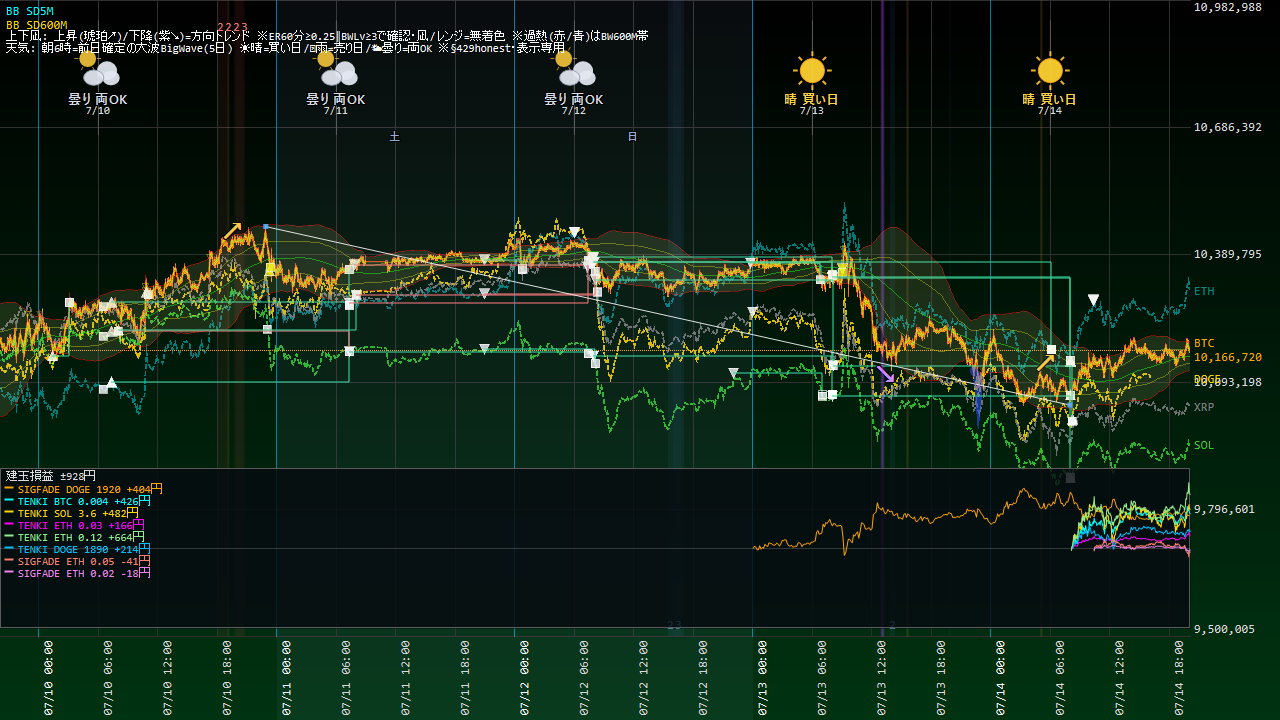
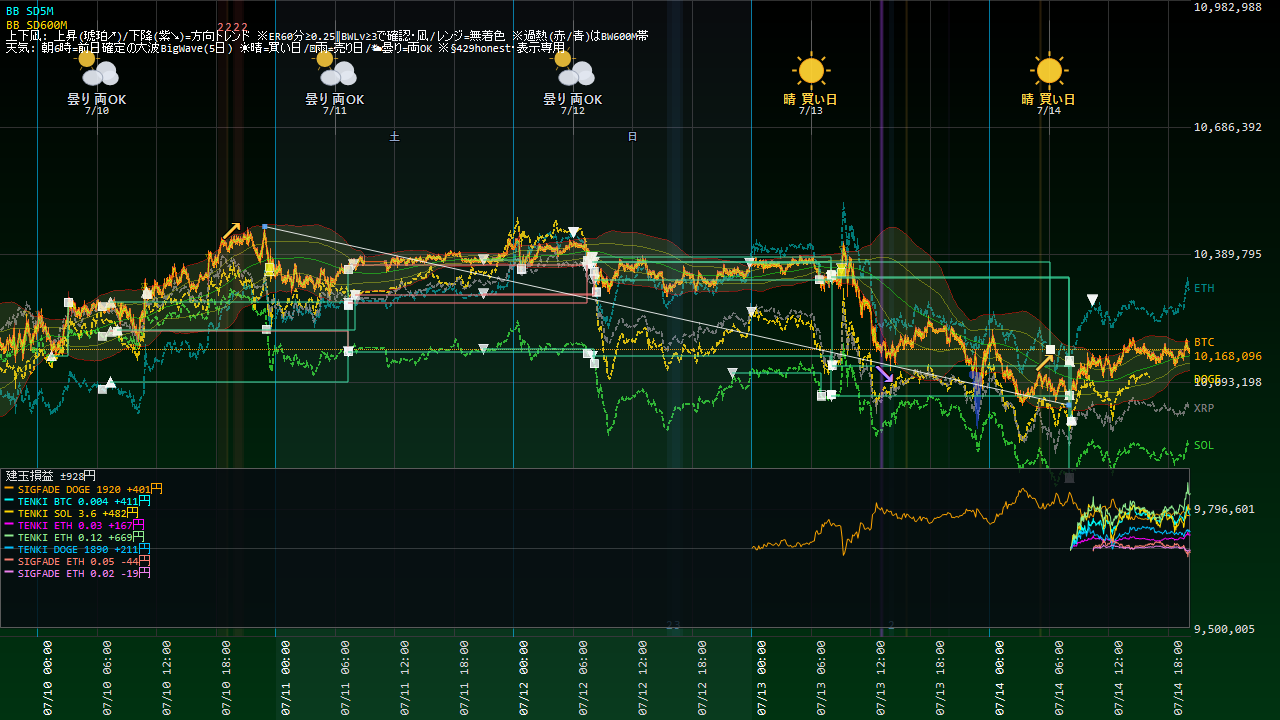
Coin100S 運用状況更新 07-14 20:17

diff --git a/coin100s-795hc4jfv8/status.html b/coin100s-795hc4jfv8/status.html
@@ -14,23 +14,23 @@ a{color:#60a5fa;text-decoration:none} a:hover{text-decoration:underline}
 .meta{color:#94a3b8;font-size:13px}</style>
 <script>setTimeout(function(){location.replace(location.pathname+"?t="+Date.now());},300000);</script></head><body>
 <h1>Coin100S 運用状況</h1>
-<p class="meta">スナップショット: 2026-07-14 20:10:47 / ページ生成: 2026-07-14 20:11:06(自動リロード・最新化) / <a href="index.html">目次へ</a></p>
+<p class="meta">スナップショット: 2026-07-14 20:16:47 / ページ生成: 2026-07-14 20:17:06(自動リロード・最新化) / <a href="index.html">目次へ</a></p>
 <div class="cards">
 <div class="card">建玉数<div class="v">8</div></div>
 <div class="card">本日損益<div class="v pos">+5,341円</div></div>
-<div class="card">評価損益<div class="v pos">+2,262円</div></div>
+<div class="card">評価損益<div class="v pos">+2,443円</div></div>
 </div>
 <h2>資産推移(直近30日)</h2>
-<img src="status_equity.png?t=2011" alt="equity">
+<img src="status_equity.png?t=2017" alt="equity">
 <h2>取引チャート(直近24h)</h2>
-<img src="status_chart.png?t=2011" alt="chart">
+<img src="status_chart.png?t=2017" alt="chart">
 <h2>建玉一覧</h2>
-<table><tr><th>銘柄</th><th>側</th><th>数量</th><th>建値</th><th>含損益</th><th>レッグ</th></tr><tr><td>BTC_JPY</td><td>BUY</td><td>0.004</td><td>@10,063,547</td><td>+406円</td><td>TENKI5D_REV_BTC</td></tr><tr><td>DOGE_JPY</td><td>BUY</td><td>1890</td><td>@12</td><td>+223円</td><td>TENKI5D_REV_DOGE</td></tr><tr><td>DOGE_JPY</td><td>SELL</td><td>1920</td><td>@12</td><td>+395円</td><td>SIGFADE_DOGE</td></tr><tr><td>ETH_JPY</td><td>SELL</td><td>0.02</td><td>@290,234</td><td>-17円</td><td>SIGFADE_ETH</td></tr><tr><td>ETH_JPY</td><td>SELL</td><td>0.05</td><td>@290,315</td><td>-39円</td><td>SIGFADE_ETH</td></tr><tr><td>ETH_JPY</td><td>BUY</td><td>0.12</td><td>@285,611</td><td>+655円</td><td>TENKI5D_REV_ETH</td></tr><tr><td>ETH_JPY</td><td>BUY</td><td>0.03</td><td>@285,605</td><td>+164円</td><td>TENKI5D_REV_ETH</td></tr><tr><td>SOL_JPY</td><td>BUY</td><td>3.6</td><td>@12,083</td><td>+475円</td><td>TENKI5D_REV_SOL</td></tr></table>
+<table><tr><th>銘柄</th><th>側</th><th>数量</th><th>建値</th><th>含損益</th><th>レッグ</th></tr><tr><td>BTC_JPY</td><td>BUY</td><td>0.004</td><td>@10,063,547</td><td>+471円</td><td>TENKI5D_REV_BTC</td></tr><tr><td>DOGE_JPY</td><td>BUY</td><td>1890</td><td>@12</td><td>+228円</td><td>TENKI5D_REV_DOGE</td></tr><tr><td>DOGE_JPY</td><td>SELL</td><td>1920</td><td>@12</td><td>+389円</td><td>SIGFADE_DOGE</td></tr><tr><td>ETH_JPY</td><td>SELL</td><td>0.02</td><td>@290,234</td><td>-27円</td><td>SIGFADE_ETH</td></tr><tr><td>ETH_JPY</td><td>SELL</td><td>0.05</td><td>@290,315</td><td>-62円</td><td>SIGFADE_ETH</td></tr><tr><td>ETH_JPY</td><td>BUY</td><td>0.12</td><td>@285,611</td><td>+711円</td><td>TENKI5D_REV_ETH</td></tr><tr><td>ETH_JPY</td><td>BUY</td><td>0.03</td><td>@285,605</td><td>+178円</td><td>TENKI5D_REV_ETH</td></tr><tr><td>SOL_JPY</td><td>BUY</td><td>3.6</td><td>@12,083</td><td>+543円</td><td>TENKI5D_REV_SOL</td></tr></table>
 <h2>実現決済履歴(直近15件・OrderId単位)</h2>
 <table><tr><th>決済時刻</th><th>レッグ</th><th>銘柄</th><th>実現損益</th></tr><tr><td>07-14 08:15</td><td>TENKI5D_REV_DOGE</td><td>DOGE</td><td class="pos">+267円</td></tr><tr><td>07-14 08:06</td><td>TENKI5D_REV_SOL</td><td>SOL</td><td class="pos">+1,011円</td></tr><tr><td>07-14 08:06</td><td>TENKI5D_REV_BTC</td><td>BTC</td><td class="pos">+819円</td></tr><tr><td>07-14 08:06</td><td>TENKI5D_REV_ETH</td><td>ETH</td><td class="pos">+826円</td></tr><tr><td>07-14 06:08</td><td>RELVALP_SELL</td><td>ETH</td><td class="pos">+89円</td></tr><tr><td>07-14 06:08</td><td>RELVALP_SELL</td><td>ETH</td><td class="pos">+357円</td></tr><tr><td>07-14 06:08</td><td>RELVALP_SELL</td><td>ETH</td><td class="pos">+314円</td></tr><tr><td>07-14 06:08</td><td>RELVALP_SELL</td><td>ETH</td><td class="pos">+328円</td></tr><tr><td>07-14 06:08</td><td>RELVALP_SELL</td><td>ETH</td><td class="pos">+331円</td></tr><tr><td>07-14 06:08</td><td>RELVALP_SELL</td><td>ETH</td><td class="pos">+337円</td></tr><tr><td>07-14 06:08</td><td>RELVALP_SELL</td><td>ETH</td><td class="pos">+329円</td></tr><tr><td>07-14 06:08</td><td>RELVALP_SELL</td><td>ETH</td><td class="pos">+333円</td></tr><tr><td>07-13 09:06</td><td>BW10M3_5M</td><td>BTC</td><td class="pos">+17円</td></tr><tr><td>07-13 08:12</td><td>TENKI5D_REV_DOGE</td><td>DOGE</td><td class="pos">+408円</td></tr><tr><td>07-13 08:03</td><td>TENKI5D_REV_SOL</td><td>SOL</td><td class="pos">+15円</td></tr></table>
 <h2>本取引日の実取引(6:00起点)</h2>
 <table><tr><th>時刻</th><th>種別</th><th>側</th><th>銘柄</th><th>数量</th><th>指値</th></tr><tr><td>06:08:03</td><td>決済</td><td>BUY</td><td>ETH_JPY</td><td>0.05</td><td>287,361</td></tr><tr><td>06:08:04</td><td>決済</td><td>BUY</td><td>ETH_JPY</td><td>0.05</td><td>287,361</td></tr><tr><td>06:08:05</td><td>決済</td><td>BUY</td><td>ETH_JPY</td><td>0.05</td><td>287,365</td></tr><tr><td>06:08:07</td><td>決済</td><td>BUY</td><td>ETH_JPY</td><td>0.05</td><td>287,366</td></tr><tr><td>06:08:09</td><td>決済</td><td>BUY</td><td>ETH_JPY</td><td>0.05</td><td>287,370</td></tr><tr><td>06:08:11</td><td>決済</td><td>BUY</td><td>ETH_JPY</td><td>0.05</td><td>287,370</td></tr><tr><td>06:08:12</td><td>決済</td><td>BUY</td><td>ETH_JPY</td><td>0.05</td><td>287,372</td></tr><tr><td>06:08:13</td><td>決済</td><td>BUY</td><td>ETH_JPY</td><td>0.05</td><td>287,372</td></tr><tr><td>06:08:14</td><td>決済</td><td>BUY</td><td>ETH_JPY</td><td>0.04</td><td>287,374</td></tr><tr><td>06:08:16</td><td>決済</td><td>BUY</td><td>ETH_JPY</td><td>0.01</td><td>287,376</td></tr><tr><td>06:08:19</td><td>決済</td><td>BUY</td><td>ETH_JPY</td><td>0.05</td><td>287,378</td></tr><tr><td>06:08:20</td><td>決済</td><td>BUY</td><td>ETH_JPY</td><td>0.05</td><td>287,380</td></tr><tr><td>06:08:21</td><td>決済</td><td>BUY</td><td>ETH_JPY</td><td>0.04</td><td>287,380</td></tr><tr><td>06:08:22</td><td>決済</td><td>BUY</td><td>ETH_JPY</td><td>0.01</td><td>287,379</td></tr><tr><td>06:08:23</td><td>決済</td><td>BUY</td><td>ETH_JPY</td><td>0.01</td><td>287,379</td></tr><tr><td>08:06:03</td><td>決済</td><td>BUY</td><td>ETH_JPY</td><td>0.13</td><td>286,547</td></tr><tr><td>08:06:03</td><td>決済</td><td>BUY</td><td>BTC_JPY</td><td>0.003</td><td>10,092,690</td></tr><tr><td>08:06:03</td><td>決済</td><td>BUY</td><td>SOL_JPY</td><td>3</td><td>12,121</td></tr><tr><td>08:07:03</td><td>新規</td><td>BUY</td><td>BTC_JPY</td><td>0.004</td><td>10,070,303</td></tr><tr><td>08:07:03</td><td>新規</td><td>BUY</td><td>ETH_JPY</td><td>0.15</td><td>285,781</td></tr><tr><td>08:07:03</td><td>新規</td><td>BUY</td><td>SOL_JPY</td><td>3.6</td><td>12,091</td></tr><tr><td>08:15:03</td><td>決済</td><td>BUY</td><td>DOGE_JPY</td><td>1590</td><td>12</td></tr><tr><td>08:16:03</td><td>新規</td><td>BUY</td><td>DOGE_JPY</td><td>1890</td><td>12</td></tr><tr><td>10:24:03</td><td>新規</td><td>SELL</td><td>ETH_JPY</td><td>0.07</td><td>290,189</td></tr></table>
 <h2>現在レジーム(3軸・§570c)</h2>
-<ul><li>アルト対BTC 5日: <b>-134bps</b>(アルト劣後=RELVAL順風)</li><li>BTC ER240m: <b>0.022</b>(閾値0.25→レンジ(fade順風/BWTRD逆風))</li><li>BTC実現ボラ240m: <b>3.20</b> bps/分</li></ul>
+<ul><li>アルト対BTC 5日: <b>-134bps</b>(アルト劣後=RELVAL順風)</li><li>BTC ER240m: <b>0.039</b>(閾値0.25→レンジ(fade順風/BWTRD逆風))</li><li>BTC実現ボラ240m: <b>3.19</b> bps/分</li></ul>
 <hr><p class="meta">自動生成: tools/web_publish.py(§580・読み取り専用)。売買判断はアプリ本体。</p>
 </body></html>

diff --git a/coin100s-795hc4jfv8/index.html b/coin100s-795hc4jfv8/index.html
@@ -14,16 +14,16 @@ a{color:#60a5fa;text-decoration:none} a:hover{text-decoration:underline}
 .meta{color:#94a3b8;font-size:13px}</style>
 <script>setTimeout(function(){location.replace(location.pathname+"?t="+Date.now());},300000);</script></head><body>
 <h1>Coin100S ダッシュボード</h1>
-<p class="meta">スナップショット: 2026-07-14 20:10:47(自動リロード・最新化)</p>
+<p class="meta">スナップショット: 2026-07-14 20:16:47(自動リロード・最新化)</p>
 <div class="cards">
 <div class="card">建玉数<div class="v">8</div></div>
 <div class="card">本日損益<div class="v pos">+5,341円</div></div>
-<div class="card">評価損益<div class="v pos">+2,262円</div></div>
+<div class="card">評価損益<div class="v pos">+2,443円</div></div>
 </div>
 <h2>現在の建玉</h2>
-<table><tr><th>銘柄</th><th>側</th><th>数量</th><th>建値</th><th>含損益</th><th>レッグ</th></tr><tr><td>BTC_JPY</td><td>BUY</td><td>0.004</td><td>@10,063,547</td><td>+406円</td><td>TENKI5D_REV_BTC</td></tr><tr><td>DOGE_JPY</td><td>BUY</td><td>1890</td><td>@12</td><td>+223円</td><td>TENKI5D_REV_DOGE</td></tr><tr><td>DOGE_JPY</td><td>SELL</td><td>1920</td><td>@12</td><td>+395円</td><td>SIGFADE_DOGE</td></tr><tr><td>ETH_JPY</td><td>SELL</td><td>0.02</td><td>@290,234</td><td>-17円</td><td>SIGFADE_ETH</td></tr><tr><td>ETH_JPY</td><td>SELL</td><td>0.05</td><td>@290,315</td><td>-39円</td><td>SIGFADE_ETH</td></tr><tr><td>ETH_JPY</td><td>BUY</td><td>0.12</td><td>@285,611</td><td>+655円</td><td>TENKI5D_REV_ETH</td></tr><tr><td>ETH_JPY</td><td>BUY</td><td>0.03</td><td>@285,605</td><td>+164円</td><td>TENKI5D_REV_ETH</td></tr><tr><td>SOL_JPY</td><td>BUY</td><td>3.6</td><td>@12,083</td><td>+475円</td><td>TENKI5D_REV_SOL</td></tr></table>
+<table><tr><th>銘柄</th><th>側</th><th>数量</th><th>建値</th><th>含損益</th><th>レッグ</th></tr><tr><td>BTC_JPY</td><td>BUY</td><td>0.004</td><td>@10,063,547</td><td>+471円</td><td>TENKI5D_REV_BTC</td></tr><tr><td>DOGE_JPY</td><td>BUY</td><td>1890</td><td>@12</td><td>+228円</td><td>TENKI5D_REV_DOGE</td></tr><tr><td>DOGE_JPY</td><td>SELL</td><td>1920</td><td>@12</td><td>+389円</td><td>SIGFADE_DOGE</td></tr><tr><td>ETH_JPY</td><td>SELL</td><td>0.02</td><td>@290,234</td><td>-27円</td><td>SIGFADE_ETH</td></tr><tr><td>ETH_JPY</td><td>SELL</td><td>0.05</td><td>@290,315</td><td>-62円</td><td>SIGFADE_ETH</td></tr><tr><td>ETH_JPY</td><td>BUY</td><td>0.12</td><td>@285,611</td><td>+711円</td><td>TENKI5D_REV_ETH</td></tr><tr><td>ETH_JPY</td><td>BUY</td><td>0.03</td><td>@285,605</td><td>+178円</td><td>TENKI5D_REV_ETH</td></tr><tr><td>SOL_JPY</td><td>BUY</td><td>3.6</td><td>@12,083</td><td>+543円</td><td>TENKI5D_REV_SOL</td></tr></table>
 <p><a href="status.html"><b>▶ 運用状況の詳細(チャート・本日の取引・レジーム)</b></a></p>
 <h2>日報一覧</h2>
 <table><tr><th>取引日</th><th>実現損益</th><th>総括</th></tr><tr><td><a href='reports/20260713_Coin100S日報.html'>2026-07-13</a></td><td class="pos">+0円</td><td class='meta'>実取引: 新規5件/決済8件、実現損益 +0円。シグナル却下1件（最多: BW10M3_5M／トレンド方向ゲート(N分傾き上と不一致=逆張り方向のfade禁止)）。警告/孤児/エラーなし＝健全。</td></tr><tr><td><a href='reports/20260712_Coin100S日報.html'>2026-07-12</a></td><td class="pos">+0円</td><td class='meta'>実取引: 新規14件/決済6件、実現損益 +0円。シグナル却下5件（最多: BW10M3_5M／トレンド方向ゲート(N分傾き下と不一致=逆張り方向のfade禁止)）。⚠警告/エラー 2件（要確認）。</td></tr><tr><td><a href='reports/20260711_Coin100S日報.html'>2026-07-11</a></td><td class="pos">+0円</td><td class='meta'>実取引: 新規7件/決済6件、実現損益 +0円。⚠警告/エラー 52件（要確認）。</td></tr><tr><td><a href='reports/20260710_Coin100S日報.html'>2026-07-10</a></td><td class="pos">+0円</td><td class='meta'>実取引: 新規7件/決済6件、実現損益 +0円。シグナル却下6件（最多: BW10M3_5M／トレンド方向ゲート(N分傾き上と不一致=逆張り方向のfade禁止)）。警告/孤児/エラーなし＝健全。</td></tr><tr><td><a href='reports/20260709_Coin100S日報.html'>2026-07-09</a></td><td class="pos">+0円</td><td class='meta'>実取引: 新規8件/決済3件、実現損益 +0円。シグナル却下5件（最多: SD120M_5M／トレンド方向ゲート(N分傾き上と不一致=逆張り方向のfade禁止)）。警告/孤児/エラーなし＝健全。</td></tr><tr><td><a href='reports/20260708_Coin100S日報.html'>2026-07-08</a></td><td class="pos">+0円</td><td class='meta'>実取引: 新規2件/決済4件、実現損益 +0円。シグナル却下4件（最多: SD120M_5M／トレンド方向ゲート(N分傾き下と不一致=逆張り方向のfade禁止)）。警告/孤児/エラーなし＝健全。</td></tr><tr><td><a href='reports/20260707_Coin100S日報.html'>2026-07-07</a></td><td class="pos">+0円</td><td class='meta'>実取引: 新規8件/決済6件、実現損益 +0円。シグナル却下4件（最多: SD120M_5M／トレンド方向ゲート(N分傾き上と不一致=逆張り方向のfade禁止)）。⚠警告/エラー 258件（要確認）。</td></tr><tr><td><a href='reports/20260706_Coin100S日報.html'>2026-07-06</a></td><td class="pos">+0円</td><td class='meta'>実取引: 新規9件/決済6件、実現損益 +0円。シグナル却下9件（最多: SD120M_5M／トレンド方向ゲート(N分傾き上と不一致=逆張り方向のfade禁止)）。⚠警告/エラー 150件（要確認）。</td></tr><tr><td><a href='reports/20260705_Coin100S日報.html'>2026-07-05</a></td><td class="pos">+0円</td><td class='meta'>実取引: 新規8件/決済3件、実現損益 +0円。⚠警告/エラー 2件（要確認）。</td></tr><tr><td><a href='reports/20260704_Coin100S日報.html'>2026-07-04</a></td><td class="pos">+0円</td><td class='meta'>実取引: 新規1件/決済2件、実現損益 +0円。⚠警告/エラー 2件（要確認）。</td></tr><tr><td><a href='reports/20260703_Coin100S日報.html'>2026-07-03</a></td><td class="pos">+0円</td><td class='meta'>実取引: 新規5件/決済4件、実現損益 +0円。⚠警告/エラー 15件（要確認）。</td></tr><tr><td><a href='reports/20260702_Coin100S日報.html'>2026-07-02</a></td><td class="pos">+0円</td><td class='meta'>実取引: 新規7件/決済5件、実現損益 +0円。シグナル却下17件（最多: SD120M_5M／トレンド方向ゲート(N分傾き上と不一致=逆張り方向のfade禁止)）。⚠警告/エラー 26件（要確認）。</td></tr><tr><td><a href='reports/20260701_Coin100S日報.html'>2026-07-01</a></td><td class="pos">+0円</td><td class='meta'>実取引: 新規14件/決済8件、実現損益 +0円。シグナル却下14件（最多: SD120M_5M／ボラ軸ゲート(SDN%&amp;gt;N%=高ボラ/荒れレンジ)）。⚠警告/エラー 2件（要確認）。</td></tr><tr><td><a href='reports/20260630_Coin100S日報.html'>2026-06-30</a></td><td class="pos">+0円</td><td class='meta'>実取引: 新規0件/決済1件、実現損益 +0円。シグナル却下29件（最多: 微5M／当日枠N）。警告/孤児/エラーなし＝健全。</td></tr></table>
-<hr><p class="meta">更新: 2026-07-14 20:11:06 / 自動生成: tools/web_publish.py(§580)</p>
+<hr><p class="meta">更新: 2026-07-14 20:17:06 / 自動生成: tools/web_publish.py(§580)</p>
 </body></html>
